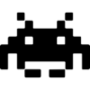
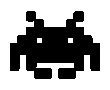
Subindo movimentação dos invaders

Changed region(s): [[0.0, 0.1111, 1.0, 0.8889], [0.6, 0.4, 0.7333, 0.5111], [0.2667, 0.4, 0.4, 0.5111]]

diff --git a/src/main.py b/src/main.py
@@ -20,7 +20,7 @@ def draw(nave, matrix_invader, num_row_invader, num_column_invader, bullets):
     for bullet in bullets:
         bullet.draw()
 
-def draw_fps(fps, list_position, size, color, font_name):
+def draw_fps(fps, list_position, size, color, font_name, janela):
     int_fps_2_string = str(int(fps))
     janela.draw_text("FPS: " + int_fps_2_string, list_position[0], list_position[1], size, color, font_name)
 
@@ -49,16 +49,31 @@ def set_nave(path_nave):
 
 def set_invander(path_invader, row, column):
     invader = Sprite(path_invader, 1)
-    x, y = row * invader.width, column * invader.height
+    x, y = (column * invader.width) + 270, row * invader.height
     invader.set_position(x, y)
     
     return invader
 
-def set_matrix_invader(path_invader):
-    matrix_invaders = [[0] * NUM_COLUMN_INVADER] * NUM_ROW_INVADER
+def move_invader(matrix_invaders, num_row_invader, num_column_invader, janela, invader_direction_x):
+    if(matrix_invaders[0][0].x <= 0 or matrix_invaders[0][-1].x + matrix_invaders[0][-1].width >= janela.width):
+        invader_direction_x *= -1
+        for row in range(num_row_invader):
+            for column in range(num_column_invader):
+                matrix_invaders[row][column].move_y(INVADER_SPEED * GAME_SPEED * janela.delta_time())
+    
 
-    for row in range(NUM_ROW_INVADER):
-        for  column in range(NUM_COLUMN_INVADER):
+    for row in range(num_row_invader):
+        for column in range(num_column_invader):
+            matrix_invaders[row][column].move_x(INVADER_SPEED * janela.delta_time() * GAME_SPEED * invader_direction_x)
+
+    return invader_direction_x
+
+def set_matrix_invader(path_invader, num_row_invader, num_column_invader):
+    matrix_invaders = []
+    for i in range(num_row_invader): matrix_invaders.append([0] * num_column_invader)
+
+    for row in range(num_row_invader):
+        for column in range(num_column_invader):
             matrix_invaders[row][column] = set_invander(path_invader, row, column)
     
     return matrix_invaders
@@ -89,12 +104,13 @@ fundo = GameImage(path_bg)
 key = Keyboard()
 
 nave = set_nave("./assets/nave/nave.png")
+direcao_nave = 1
 
 path_bullet = "./assets/bullet/pixel_laser_black.png"
 bullets = []
 
 path_invader = "./assets/invader/invader_01.png"
-matrix_invaders = set_matrix_invader(path_invader)
+matrix_invaders = set_matrix_invader(path_invader, NUM_ROW_INVADER, NUM_COLUMN_INVADER)
 
 enemy_shoot_delay = 1/GAME_SPEED 
 shoot_delay = 1/GAME_SPEED * 0.5
@@ -119,10 +135,11 @@ while running:
             # Chama a função shoot(), para que ela efetue do disparo
             shoot_tick = shoot(nave, path_bullet)
     
+    direcao_nave = move_invader(matrix_invaders, NUM_ROW_INVADER, NUM_COLUMN_INVADER, janela, direcao_nave)
     move_bullets(bullets, janela)
 
     draw(nave, matrix_invaders, NUM_ROW_INVADER, NUM_COLUMN_INVADER, bullets)
-    draw_fps(clock.get_fps(), [0,0], 20, BLACK, FONT_NAME)
+    draw_fps(clock.get_fps(), [0,0], 20, BLACK, FONT_NAME, janela)
     
     
 

diff --git a/src/settings.py b/src/settings.py
@@ -16,5 +16,6 @@ FONT_NAME = "calibri"
 
 NAVE_SPEED = 200
 BULLET_SPEED = 200
+INVADER_SPEED = 100
 
-NUM_ROW_INVADER, NUM_COLUMN_INVADER = 5, 5
+NUM_ROW_INVADER, NUM_COLUMN_INVADER = 3, 4
